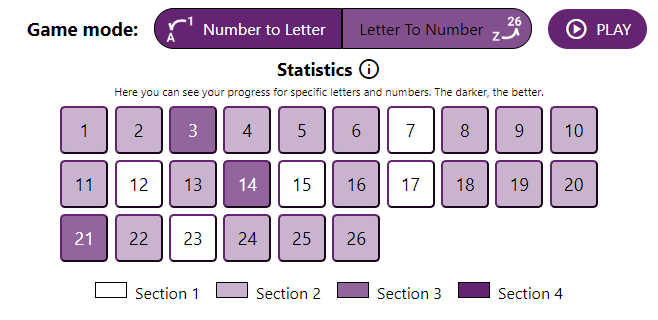
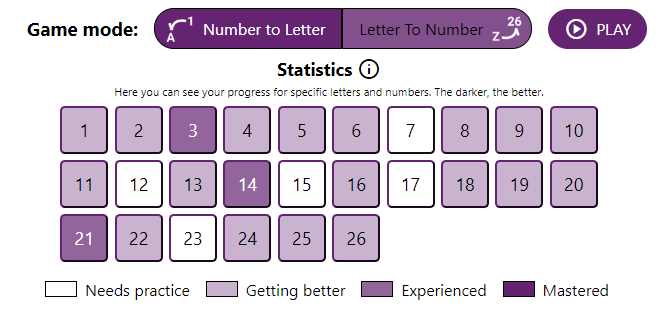
Adjust legend texts for statistics

Changed region(s): [[0.0608, 0.875, 0.9422, 0.9375]]

diff --git a/src/components/toolbar/Toolbar.module.scss b/src/components/toolbar/Toolbar.module.scss
@@ -15,6 +15,5 @@
 }
 
 .icon {
-  font-size: 3rem;
-  color: $primaryColor;
+  font-size: 2.5rem;
 }
